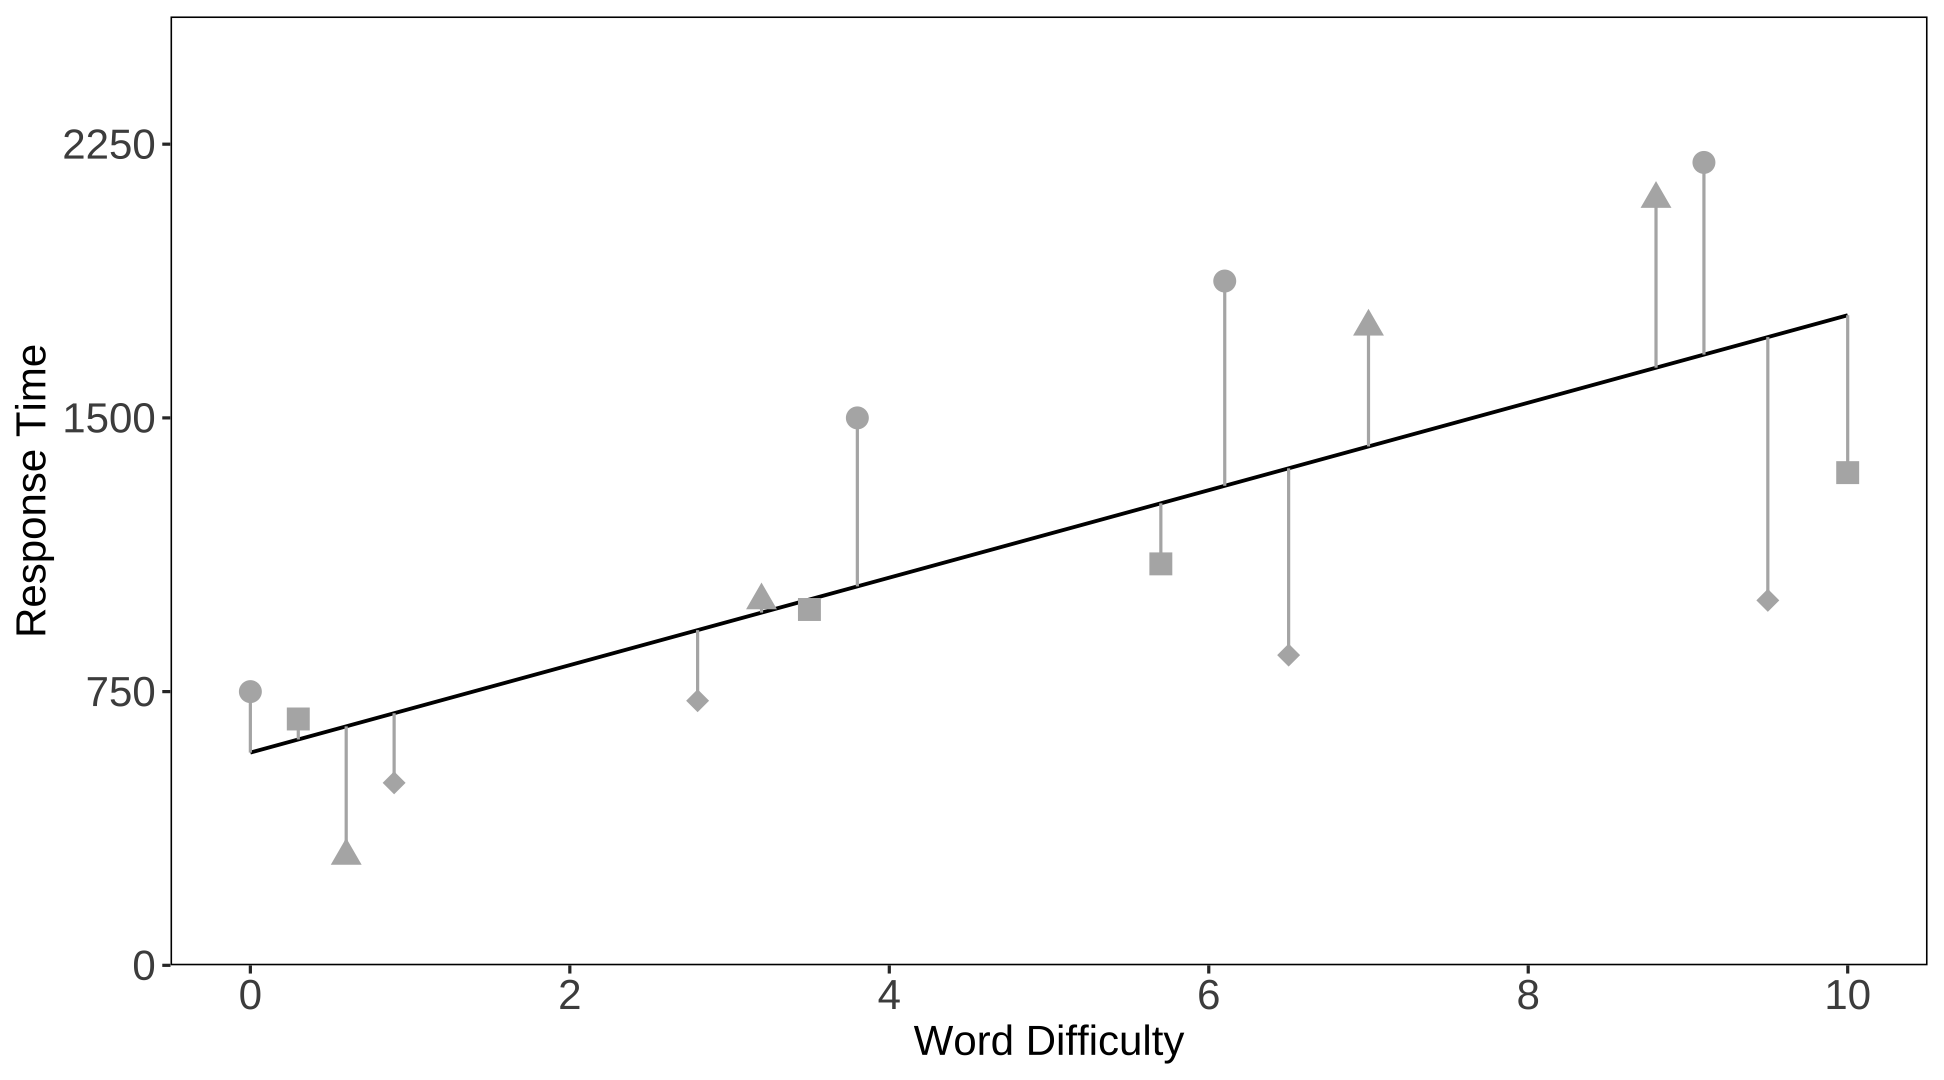
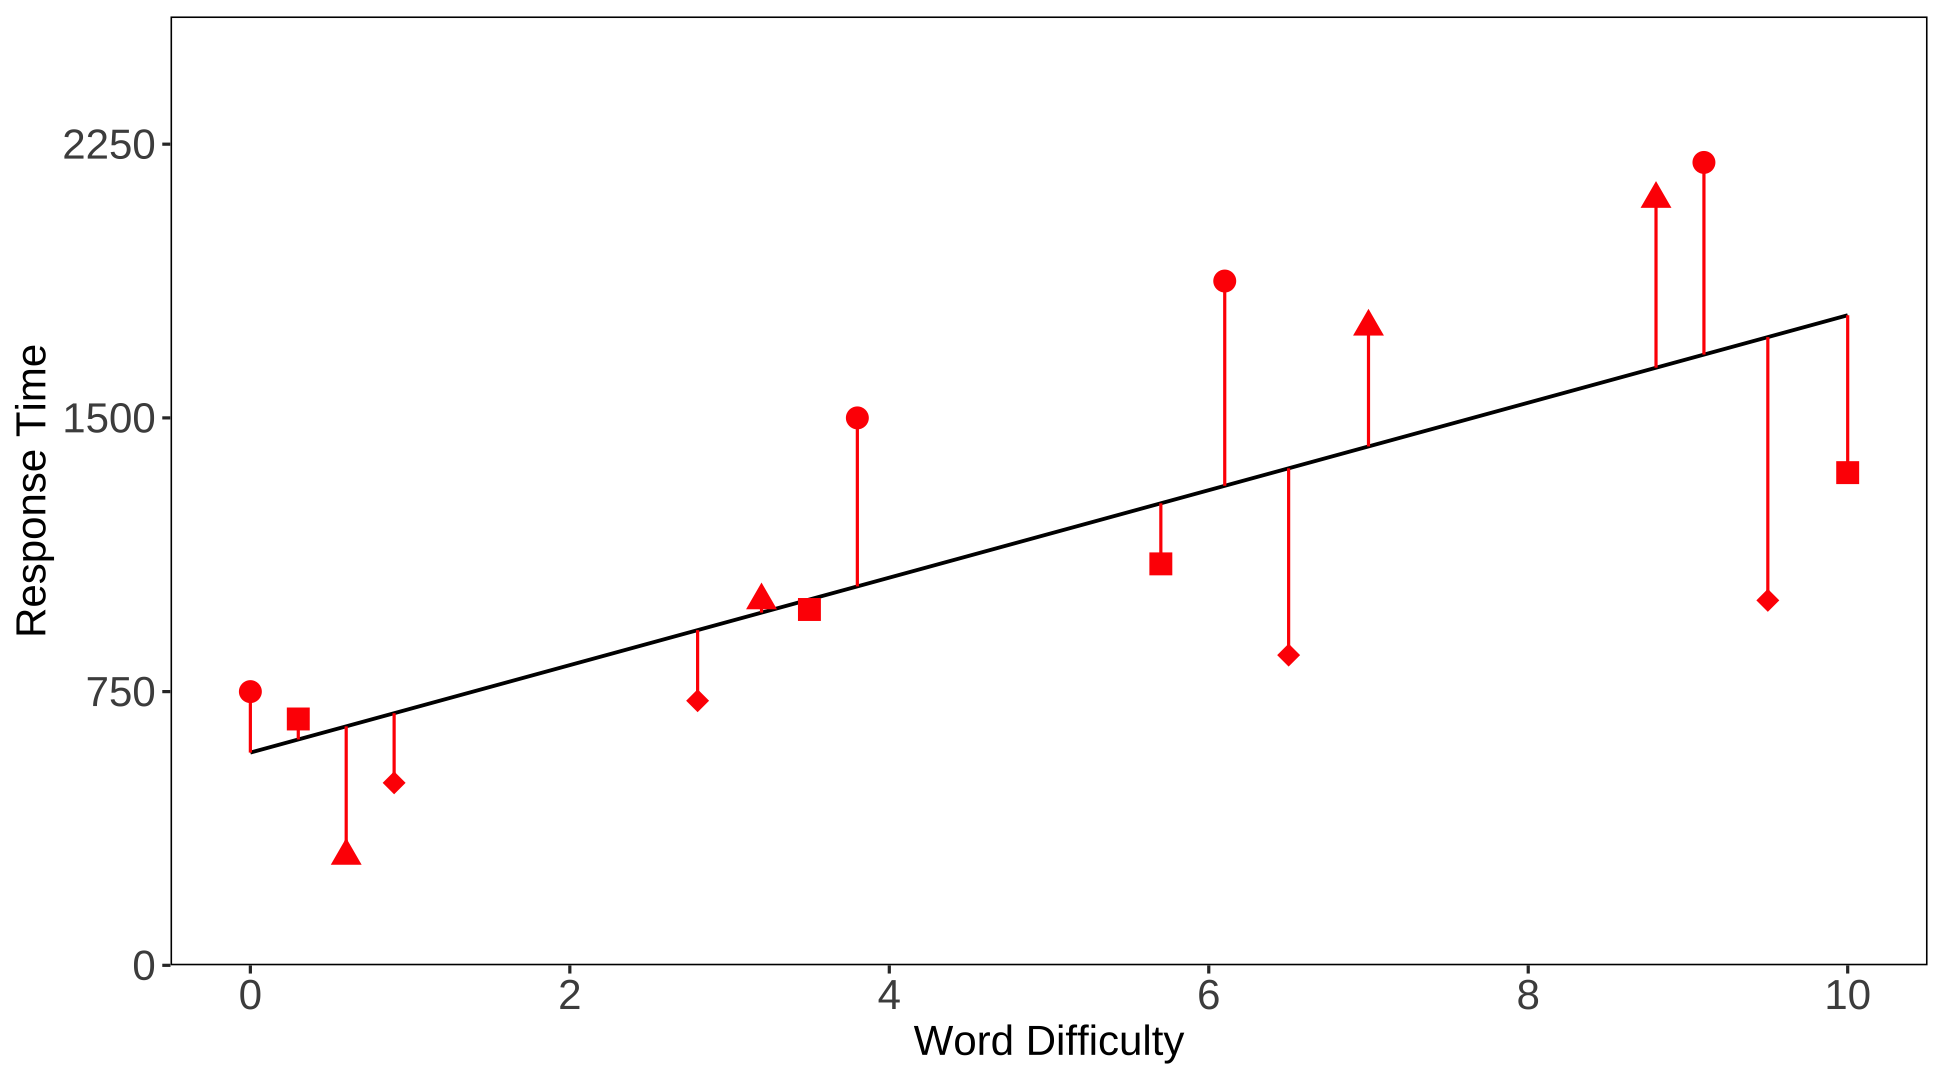
change figs so easier to see

diff --git a/static/slides/15-MLM/mlm.html b/static/slides/15-MLM/mlm.html
@@ -534,7 +534,7 @@ Radon is a carcinogen – a naturally occurring radioactive gas whose decay prod
 3. What are the fixed effects? What are the random effects?
 ]
 
-<div class="countdown" id="timer_896e2081" data-update-every="1" tabindex="0" style="right:0;bottom:0;margin:1.25%;">
+<div class="countdown" id="timer_6a700b85" data-update-every="1" tabindex="0" style="right:0;bottom:0;margin:1.25%;">
 <div class="countdown-controls"><button class="countdown-bump-down">&minus;</button><button class="countdown-bump-up">&plus;</button></div>
 <code class="countdown-time"><span class="countdown-digits minutes">03</span><span class="countdown-digits colon">:</span><span class="countdown-digits seconds">00</span></code>
 </div>
